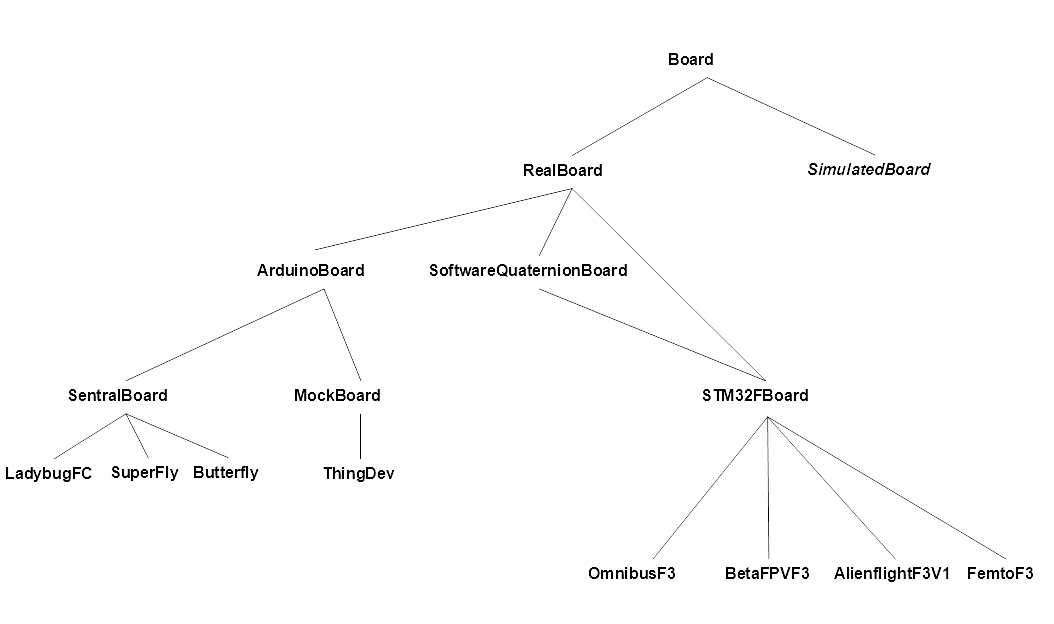
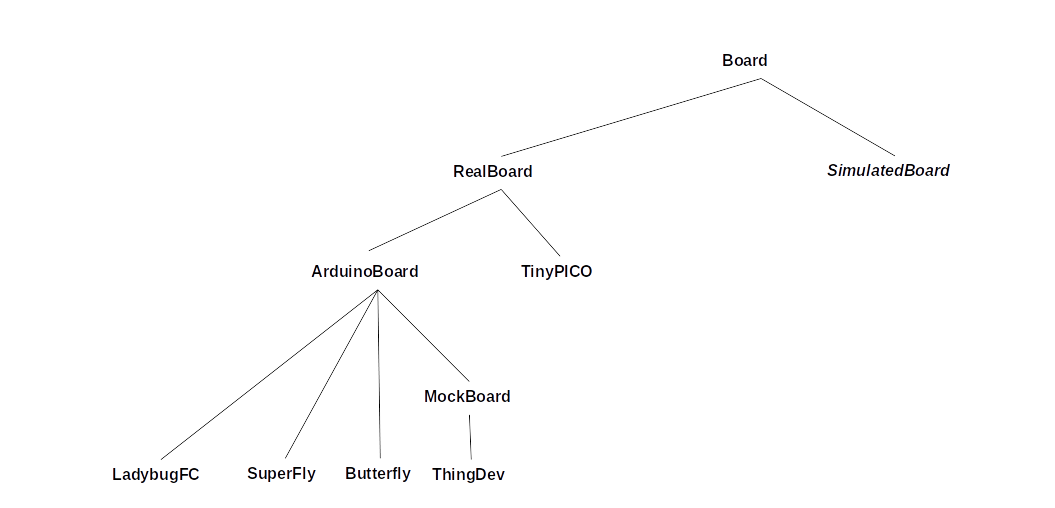
More README

diff --git a/README.md b/README.md
@@ -230,11 +230,8 @@ class used in [MulticopterSim](https://github.com/simondlevy/MulticopterSim/tree
 
 * <b>ArduinoBoard</b>: Ancestor class for Arduino-compatible boards
 
-* <b>SoftwareQuaternionBoard</b>: Ancestor class for any board not providing a direct (hardware-based) quaternion reading; i.e.,
-most boards
-
 * <b>MockBoard</b>: Parent class for Arduino development boards; enables algorithm, sensor, and receiver prototyping
 
 <p align="center"> 
-<img src="extras/media/boards2.png" width=800>
+<img src="extras/media/boards.png" width=800>
 </p>
